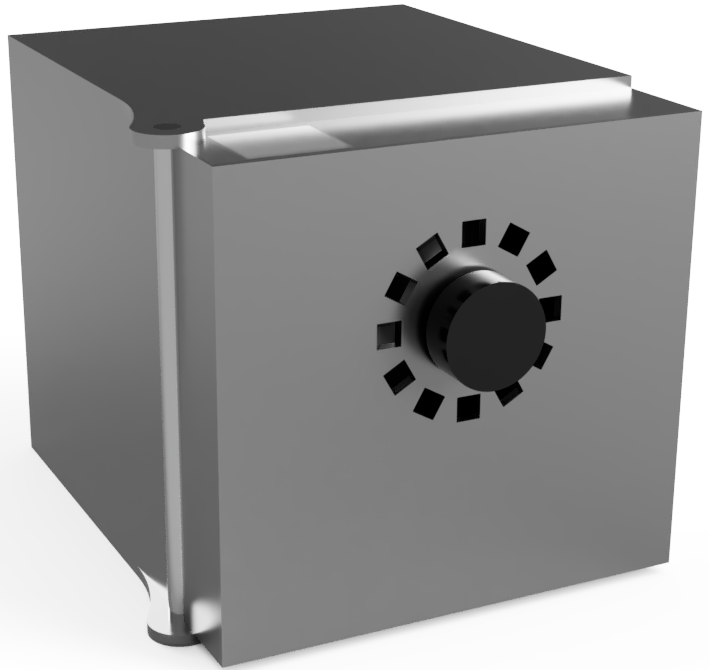
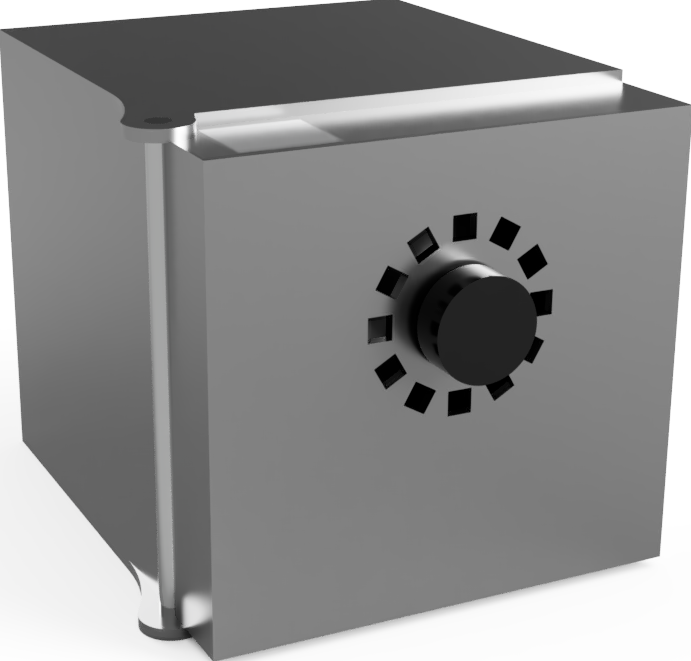
nadpisy

diff --git a/kapitoly/obrazky/obrazove_prilohy.tex b/kapitoly/obrazky/obrazove_prilohy.tex
@@ -1,14 +1,15 @@
 \newcommand\OdsazeniNadpisu{12mm}
 
 \begin{figure}
+    \appendix
+    \chapter{Obrazová příloha}
 	\section{Vzhled druhé elektronické varianty}
-    \vspace{\OdsazeniNadpisu}
+	\vspace{\OdsazeniNadpisu}
     \centering
-    \includegraphics[width=\textwidth]{kapitoly/obrazky/E2/predni_render.png}
+    \includegraphics[width=0.7\textwidth]{kapitoly/obrazky/E2/predni_render.png}
     \caption{Render varianty E2}
     \label{fig:E2-render}
 \end{figure}
-
 
 \begin{figure}[htbp]
     \section{Vzhled třetí elektronické varianty}
@@ -17,7 +18,6 @@
 	\caption{render varianty E3}
 	\label{fig:E3-renderi}
 \end{figure}
-
 
 \begin{figure}
 	\section{Vzhled druhé mechanické varianty}
@@ -28,9 +28,8 @@
     \label{fig:M2-render}
 \end{figure}
 
-\section{Simulace pevnosti tlakové desky}
-
 \begin{figure}
+    \section{Simulace pevnosti tlakové desky}
     \centering
     \includegraphics[width=370pt]{kapitoly/obrazky/E4/machanika_tlakove_desky/simulace/F100N,primo,uprostred,pohled_zepredu.png}
     \includegraphics[width=370pt]{kapitoly/obrazky/E4/machanika_tlakove_desky/simulace/F100N,primo,uprostred,pohled_zezadu.png}
@@ -49,9 +48,8 @@
     \label{fig:E4-simulace_tlakovky}
 \end{figure}
 
-\section{Obrázky PCB}
-
 \begin{figure}
+    \section{Obrázky PCB}
     \centering
     \includegraphics[width=\textwidth]{kapitoly/obrazky/E4/elektronika_tlakove_desky/civka.png}
     \caption{Vzhled reliéfu cívky}
@@ -65,9 +63,8 @@
     \label{fig:E4-LedDeska}
 \end{figure}
 
-\section{Schémata}
-
 \begin{figure}
+    \section{Schémata}
     \centering
     \includegraphics[width=0.93\textheight, angle=90]{kapitoly/ctvrta_elektronicka_varianta/E4_zapojeni/B.B.pdf}
     \caption{Propojení jednotlivých systémů -- schéma}

diff --git a/text.tex b/text.tex
@@ -153,9 +153,8 @@ safe, ESP32, ESP32 Wrover, smart LED, WS2812, BMX055, LDC1614, \\ LDC1314, open-
 % Zaver prace
 \input{CHAPTERS/ZAVER.tex}
 
-\appendix
-\chapter{Obrazová příloha}
-
+%\appendix
+%\chapter{Obrazová příloha} % nadpis je v prvním obrázku v obrazové příloze aby to bylo na jedné stránce
 \input{kapitoly/obrazky/obrazove_prilohy.tex}
 
 \chapter{Ostatní přílohy}
